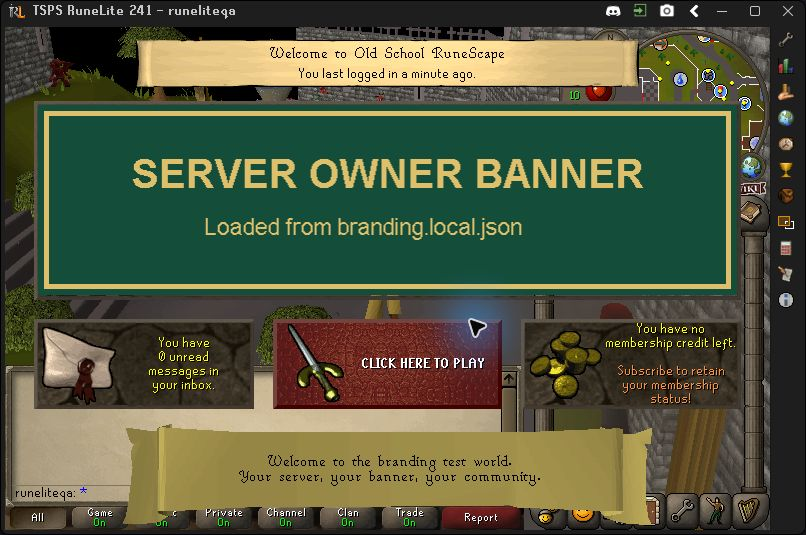
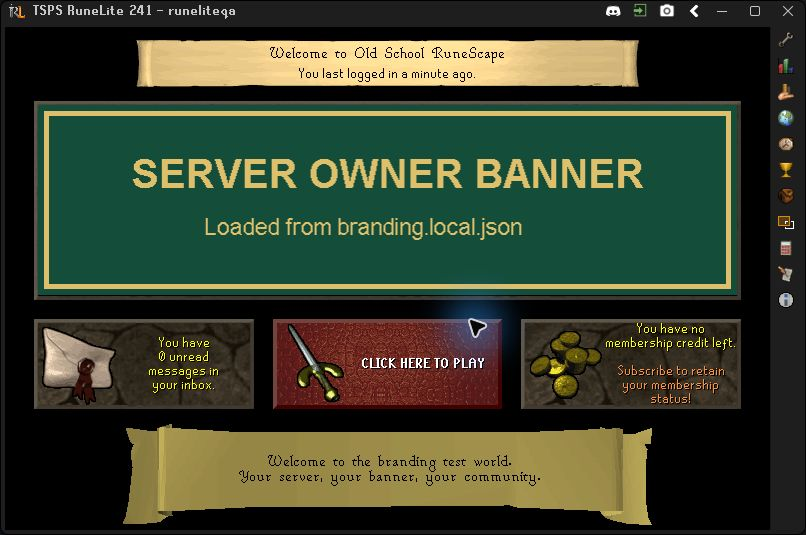
Fix opaque black backdrop behind native welcome screen

Changed region(s): [[0.0, 0.0299, 0.9615, 1.0]]

diff --git a/tools/runelite-client/WelcomeBackdropTest.java b/tools/runelite-client/WelcomeBackdropTest.java
@@ -1,0 +1,39 @@
+import java.awt.*;
+import java.awt.image.BufferedImage;
+import java.lang.reflect.*;
+import net.runelite.api.*;
+import net.runelite.api.events.BeforeRender;
+
+/** Real retained raster through the actual pre-render callback; native ordering is checked in RuneLite. */
+public final class WelcomeBackdropTest {
+    static int root=378,width=765,height=503;
+    static GameState state=GameState.LOGGED_IN;
+    static BufferedImage image=scene();
+    static void check(boolean condition,String message){if(!condition)throw new AssertionError(message);}
+    static BufferedImage scene(){BufferedImage b=new BufferedImage(1000,800,BufferedImage.TYPE_INT_ARGB);Graphics2D g=b.createGraphics();g.setColor(Color.BLUE);g.fillRect(0,0,1000,800);g.dispose();return b;}
+    public static void main(String[] args)throws Exception {
+        MainBufferProvider provider=(MainBufferProvider)Proxy.newProxyInstance(MainBufferProvider.class.getClassLoader(),new Class[]{MainBufferProvider.class},(p,m,a)->{
+            if(m.getName().equals("getImage"))return image;throw new AssertionError("Unexpected buffer API: "+m.getName());
+        });
+        Client client=(Client)Proxy.newProxyInstance(Client.class.getClassLoader(),new Class[]{Client.class},(p,m,a)->switch(m.getName()){
+            case "getTopLevelInterfaceId" -> root;
+            case "getGameState" -> state;
+            case "getCanvasWidth" -> width;
+            case "getCanvasHeight" -> height;
+            case "getBufferProvider" -> provider;
+            default -> throw new AssertionError("Unexpected client API: "+m.getName());
+        });
+        WelcomeBackdrop backdrop=new WelcomeBackdrop();Field field=WelcomeBackdrop.class.getDeclaredField("client");field.setAccessible(true);field.set(backdrop,client);
+        backdrop.onBeforeRender(new BeforeRender());
+        check(image.getRGB(0,0)==Color.BLACK.getRGB()&&image.getRGB(764,502)==Color.BLACK.getRGB(),"Welcome clears old scene before native controls");
+        check(image.getRGB(900,700)==Color.BLUE.getRGB(),"Never clear outside the game canvas");
+        Graphics2D g=image.createGraphics();g.setColor(Color.WHITE);g.fillRect(100,100,40,20);g.dispose();backdrop.onBeforeRender(new BeforeRender());
+        check(image.getRGB(100,100)==Color.WHITE.getRGB(),"Steady frames preserve cached native controls");
+        root=161;image=scene();backdrop.onBeforeRender(new BeforeRender());check(image.getRGB(20,20)==Color.BLUE.getRGB(),"Play shows gameplay");
+        root=378;state=GameState.LOGIN_SCREEN;backdrop.onBeforeRender(new BeforeRender());check(image.getRGB(20,20)==Color.BLUE.getRGB(),"Never cover login artwork");
+        state=GameState.LOGGED_IN;backdrop.onBeforeRender(new BeforeRender());check(image.getRGB(20,20)==Color.BLACK.getRGB(),"Welcome re-entry clears retained gameplay");
+        width=950;height=700;backdrop.onBeforeRender(new BeforeRender());check(image.getRGB(949,699)==Color.BLACK.getRGB()&&image.getRGB(950,700)==Color.BLUE.getRGB(),"Resize covers current bounds only");
+        image=scene();backdrop.onBeforeRender(new BeforeRender());check(image.getRGB(949,699)==Color.BLACK.getRGB(),"Replacement provider image is cleared");
+        System.out.println("WelcomeBackdropTest: 8 checks passed (real retained raster and pre-render callback)");
+    }
+}

diff --git a/tools/runelite-client/WelcomeBackdrop.java b/tools/runelite-client/WelcomeBackdrop.java
@@ -1,0 +1,36 @@
+import java.awt.*;
+import java.awt.image.BufferedImage;
+import javax.inject.Inject;
+import net.runelite.api.Client;
+import net.runelite.api.GameState;
+import net.runelite.api.MainBufferProvider;
+import net.runelite.api.events.BeforeRender;
+import net.runelite.client.eventbus.Subscribe;
+import net.runelite.client.plugins.*;
+
+/** Clear the retained scene before the native welcome interface paints its controls. */
+@PluginDescriptor(name="TSPS Welcome Backdrop", hidden=true, enabledByDefault=true)
+public final class WelcomeBackdrop extends Plugin {
+    @Inject private Client client;
+    private Image paintedImage;
+    private int paintedWidth, paintedHeight;
+    @Subscribe public void onBeforeRender(BeforeRender event) {
+        if(client.getGameState()!=GameState.LOGGED_IN || client.getTopLevelInterfaceId()!=378) {
+            paintedImage=null; return;
+        }
+        if(!(client.getBufferProvider() instanceof MainBufferProvider provider))return;
+        Image image=provider.getImage();
+        int width=client.getCanvasWidth(),height=client.getCanvasHeight();
+        if(image==null || width<=0 || height<=0)return;
+        // Steady welcome frames retain their widgets. Clearing on every frame
+        // could erase controls which the native renderer has cached.
+        if(image==paintedImage && width==paintedWidth && height==paintedHeight)return;
+        Graphics2D g=(Graphics2D)image.getGraphics();
+        try {
+            g.setClip(0,0,width,height);g.setComposite(AlphaComposite.SrcOver);
+            g.setColor(Color.BLACK);g.fillRect(0,0,width,height);
+        } finally {g.dispose();}
+        paintedImage=image;paintedWidth=width;paintedHeight=height;
+    }
+    @Override protected void shutDown() { paintedImage=null; }
+}

diff --git a/tools/runelite-client/ChatDiagnostics.java b/tools/runelite-client/ChatDiagnostics.java
@@ -52,8 +52,8 @@ public final class ChatDiagnostics extends Plugin {
                 lines.append(']');
             }
         }
-        LOG.info("TSPS_CHAT state={} tick={} cycle={} localName={} hidden={} overhead={} overheadCycle={} publicMode={} messageFilter={} varcs199,383,41,1112,65={},{},{},{},{} chatBuffers={}{}",
-            client.getGameState(), client.getTickCount(), client.getGameCycle(), player == null ? "<none>" : clean(player.getName()),
+        LOG.info("TSPS_CHAT state={} root={} tick={} cycle={} localName={} hidden={} overhead={} overheadCycle={} publicMode={} messageFilter={} varcs199,383,41,1112,65={},{},{},{},{} chatBuffers={}{}",
+            client.getGameState(), client.getTopLevelInterfaceId(), client.getTickCount(), client.getGameCycle(), player == null ? "<none>" : clean(player.getName()),
             nativeHidden(player), player == null ? "<none>" : clean(player.getOverheadText()),
             player == null ? -1 : player.getOverheadCycle(), nativeInt(null, "client", "ko", 1774104361), nativeMessageFilter(),
             client.getVarcIntValue(199), client.getVarcIntValue(383), client.getVarcIntValue(41), client.getVarcIntValue(1112), client.getVarcIntValue(65), map == null ? -1 : map.size(), lines);

diff --git a/tools/runelite-client/StartClient.java b/tools/runelite-client/StartClient.java
@@ -13,6 +13,7 @@ public final class StartClient {
             System.out.println("Pinned 117HD1.6.0 registered; rendering still requires native QA");
         }
         builtins.add(Branding.class);
+        builtins.add(WelcomeBackdrop.class);
         if (Boolean.getBoolean("tsps.diagnostics")) builtins.add(ChatDiagnostics.class);
         if (!builtins.isEmpty()) ExternalPluginManager.loadBuiltin(builtins.toArray(new Class[0]));
         RuneLite.main(args);

diff --git a/docs/runelite-gateway.md b/docs/runelite-gateway.md
@@ -110,7 +110,7 @@ The template uses `null` for all three settings, preserving the stock screen. Fo
 - Restart the gateway and RuneLite after changing config/images; **no rebuild is required**. The gateway serves the selected files to the client over its existing loopback HTTP port, so no separate web host is needed.
 - To keep the config elsewhere, pass `-BrandingFile path/to/branding.json` to the gateway launcher. Resolve image paths relative to that file as usual.
 
-The pictured post-login welcome interface and the pre-login background are separate screens. Branding preserves the native Play button and login flow; it does not patch the game's cache or installed RuneLite profile.
+The pictured post-login welcome interface and the pre-login background are separate screens. The welcome screen has an opaque black backdrop with either stock or custom branding; Play reveals the game normally. Branding preserves the native Play button and login flow; it does not patch the game's cache or installed RuneLite profile.
 
 These native screenshots use diagnostic example artwork, with 117 HD off:
 
@@ -128,6 +128,7 @@ Log out normally and close RuneLite. Stop the gateway terminal, then stop TSPS a
 - These checks used a separate TSPS world and disposable account. Sword/coins and an NPC were controlled QA fixtures, not acquisition tests.
 - Branding QA without117HD: custom login background and welcome banner/footer rendered from config; disabling restored stock artwork/loader/footer, re-enabling and relog reapplied branding, and native Play/logout worked. Six gateway tests and31 client transport/lifecycle checks cover the new paths; no full-suite rerun.
 - Three actual keyboard-submitted public messages rendered once each. Native diagnostics also confirmed the chat entry and overhead text. Optional 117 HD rendered the same TSPS world on an RTX 5090; startup alone was not counted as scene verification.
+- Welcome-backdrop correction: eight focused retained-raster checks passed. Real native QA verified black welcome backgrounds with standard rendering and optional117HD, resize/restore, stock branding disabled, Play into gameplay and normal logout. Only affected client helpers were rebuilt; no server or gateway changes were needed.
 - Focused checks cover observer-filtered snapshots, private-instance visibility/removal, unchanged normal binary packets, fail-closed oversize snapshots, real cache/JS5/Huffman, native inputs, UI/inventory/stat translation, serialized WebSocket writes, chat bursts/index reuse and launcher save isolation. See tool READMEs for commands and pins. No full repository suite was run.
 - Compatibility remains incomplete for shops, trade, custom interfaces, dynamic objects/ground items, instances and Sailing. Actor forced movement/custom models and broader remote-chat scenarios need further work. One native connection is supported; login does not establish all-content or gameplay parity.
 - Native cache bounds omit browser-only overlay varps 7995-7999 and absent legacy 317 widgets. They cannot be forwarded directly to the native client.

diff --git a/tools/runelite-client/README.md b/tools/runelite-client/README.md
@@ -50,4 +50,6 @@ Focused helper checks (real temporary loopback HTTP server and encoded images; p
 ./tools/runelite-client/test.ps1 -JavaHome $env:JAVA_HOME
 ```
 
-These checks do not replace native rendering/login/logout verification.
+The hidden TSPS Welcome Backdrop helper clears the retained game frame before the native welcome controls draw. It runs independently of branding and only when entering welcome root378, replacing the image or resizing the canvas, so cached controls survive steady frames. Play and pre-login artwork remain visible in their own states.
+
+To run only the eight retained-raster regressions, add `-WelcomeBackdropOnly`. These checks do not replace native rendering/login/logout verification.
